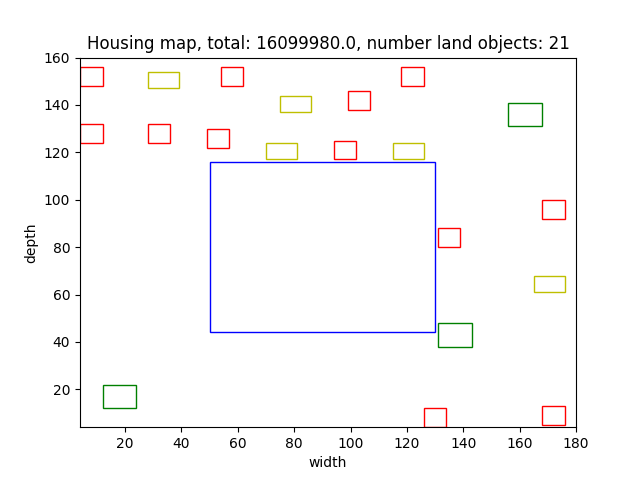
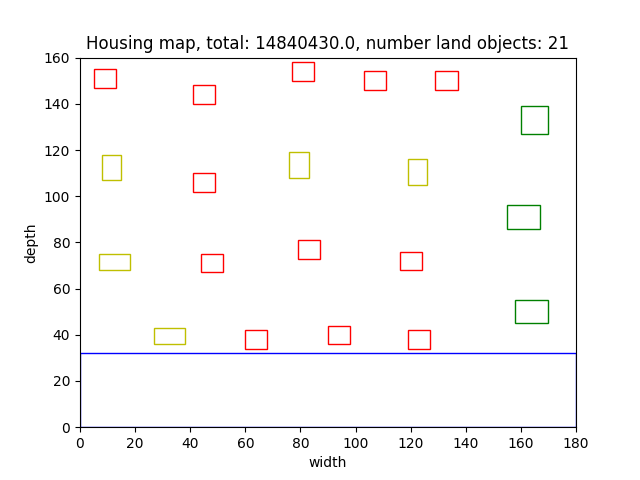
started with combining hillclimber with hillclimberswap

diff --git a/project_code/algorithms/hillclimberswap.py b/project_code/algorithms/hillclimberswap.py
@@ -8,27 +8,25 @@ from .helpers import swap_with_random_rotation, rotate
 
 class Hillclimber():
 
-    def __init__(self, empty_graph, number_houses, iterations, iterations_randomise):
-        self.winner = self.run(iterations, empty_graph, number_houses, iterations_randomise)
+    def __init__(self, graph, iterations):
+        self.winner = self.run(graph, iterations)
 
     def random_choice(self, choices):
         return (random.choice(choices))
 
-    def run(self, iterations, empty_graph, number_houses, iterations_randomise):
-        highest_scoring_map = Randomise(empty_graph, number_houses, iterations_randomise).winner
-        print(f"price after randomise: {highest_scoring_map.total}")
+    def run(self, graph, iterations):
 
         for n in range(iterations):
-            copy_highest_scoring_map = deepcopy(highest_scoring_map)
+            copy_graph = deepcopy(graph)
 
-            swapped_map = swap_with_random_rotation(copy_highest_scoring_map)
+            swapped_map = swap_with_random_rotation(copy_graph)
             
             swapped_map.calculate_distance(swapped_map.all_land_objects)
             value_swapped_map = (swapped_map.calculate_price(swapped_map.all_land_objects))
             
-            if value_swapped_map > highest_scoring_map.total :
-                highest_scoring_map = swapped_map
+            if value_swapped_map > graph.total :
+                graph = swapped_map
             
             
-        print(f"Total number land objects placed: {len(highest_scoring_map.all_land_objects)}")
-        return highest_scoring_map
+        print(f"Total number land objects placed: {len(graph.all_land_objects)}")
+        return graph

diff --git a/main.py b/main.py
@@ -60,7 +60,7 @@ if __name__ == "__main__":
     results = []
     winner = None
     counter = 0
-    for i in range(5):
+    for i in range(1):
         starting_graph = Randomise(empty_graph, number_of_houses, 100)
         winner_graph = HillClimber(starting_graph.winner)
         results.append(winner_graph.winner.total_real)
@@ -69,6 +69,11 @@ if __name__ == "__main__":
             winner = winner_graph
         if winner_graph.winner.total_real > winner.winner.total_real:
             winner = winner_graph
+
+        print(f"before hillclimber swap: {winner.winner.total_real}")
+        winner = Hillclimber(winner.winner, 100)
+        print(f"after hillclimber swap: {winner.winner.total_real}")
+
         counter += 1
         print(counter) 
 

diff --git a/project_code/algorithms/hillclimber.py b/project_code/algorithms/hillclimber.py
@@ -31,7 +31,7 @@ class HillClimber():
         generations.append("copy_map")
         current_best_value = copy_map.total
         counter = 0
-        iterations = 30
+        iterations = 5
         # steps = 2
 
         # data for iteration graph
